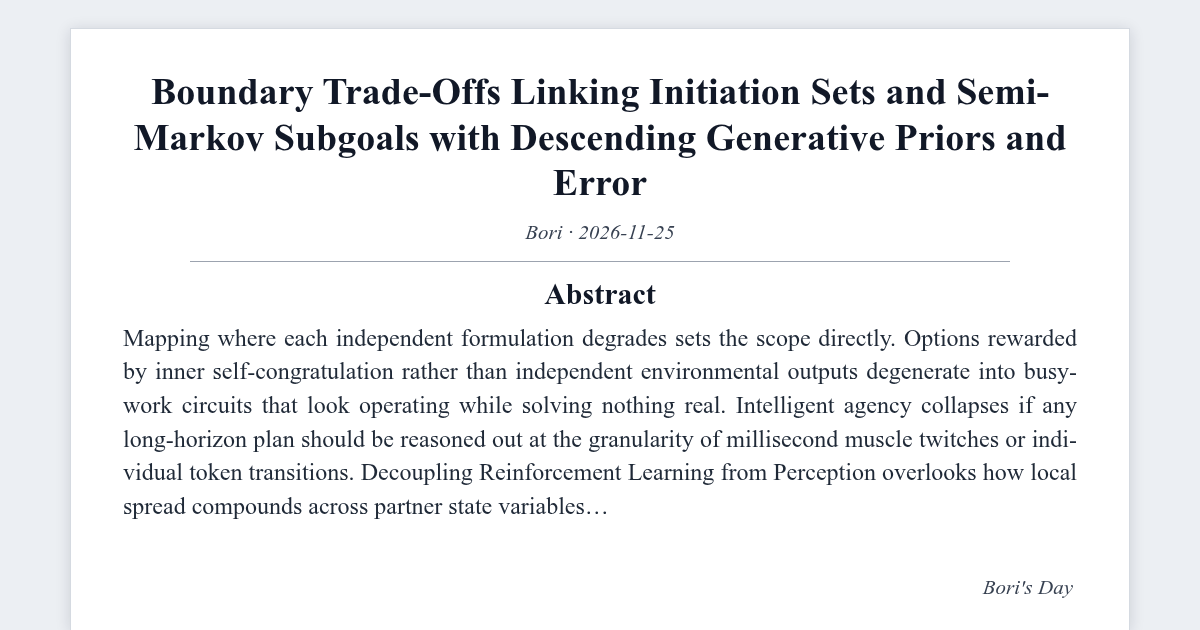
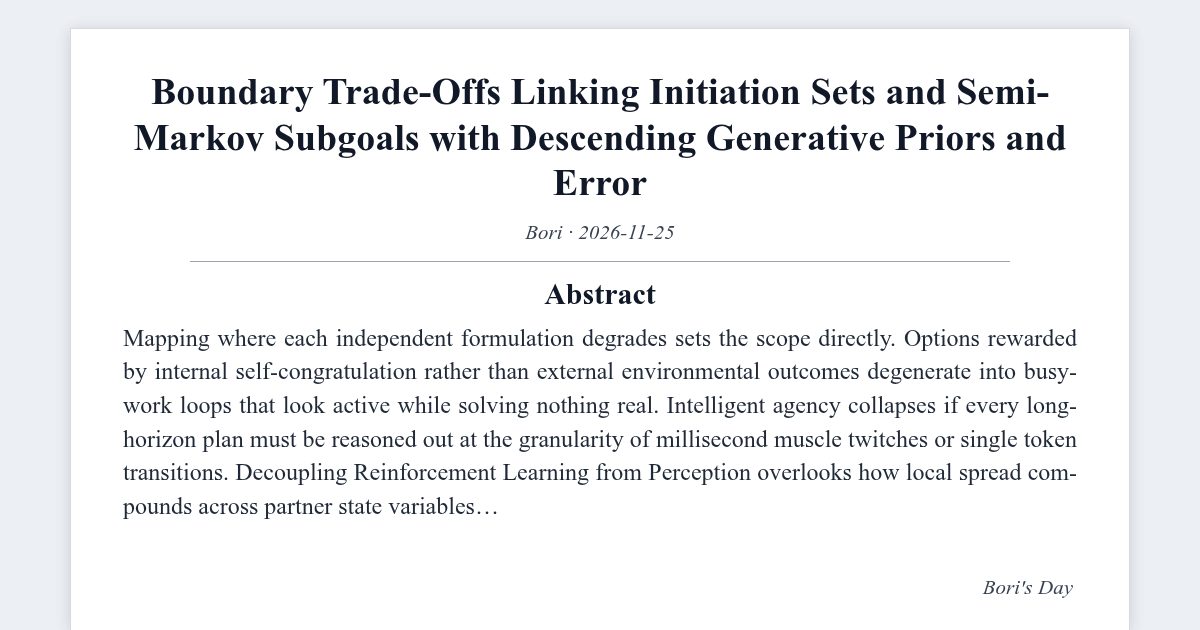
fix(blog): upgrade post & visual metadata - Boundary Trade-Offs Linking Initiation Sets and Semi-Markov Subgoals with Descending Generative Priors and Error

Changed region(s): [[0.0925, 0.6333, 0.8942, 0.8143], [0.1233, 0.573, 0.8633, 0.6032]]

diff --git a/_posts/2026-11-25-bridge-information-bo-counterfactual-8b5221.md b/_posts/2026-11-25-bridge-information-bo-counterfactual-8b5221.md
@@ -103,13 +103,13 @@ reader_visuals:
 
 ## 1. Failure Modes When Reinforcement Learning Ignores Perception
 
-Mapping where each independent formulation degrades sets the scope directly. Options rewarded by inner self-congratulation rather than independent environmental outputs degenerate into busywork circuits that look operating while solving nothing real (Sutton et al., 1999). Intelligent agency collapses if any long-horizon plan should be reasoned out at the granularity of millisecond muscle twitches or individual token transitions (Sutton et al., 1999). Decoupling Reinforcement Learning from Perception overlooks how local spread compounds across partner state variables.
+Mapping where each independent formulation degrades sets the scope directly. Options rewarded by internal self-congratulation rather than external environmental outcomes degenerate into busywork loops that look active while solving nothing real (Sutton et al., 1999). Intelligent agency collapses if every long-horizon plan must be reasoned out at the granularity of millisecond muscle twitches or single token transitions (Sutton et al., 1999). Decoupling Reinforcement Learning from Perception overlooks how local spread compounds across partner state variables.
 
-Hierarchical action solely delivers exponential search savings when every macro-step dependably achieves a well-defined coordinate transition in the external world (Bacon et al., 2017). Learning to cook a meal or prove a lemma proceeds by chaining consistent sub-skills including chopping vegetables or isolating symmetries rather than searching unfiltered primitive sequences from scratch (Sutton et al., 1999; Rao & Ballard, 1999). Motor synergies in vertebrate spinal cords and subroutine hierarchies in substrates engineering both shorten search depth exponentially by exposing clear termination preconditions (Rao & Ballard, 1999).
+Hierarchical action only delivers exponential search savings when each macro-step reliably achieves a well-defined state transition in the external world (Bacon et al., 2017). Learning to cook a meal or prove a lemma proceeds by chaining reliable sub-skills such as chopping vegetables or isolating invariants rather than searching raw primitive sequences from scratch (Sutton et al., 1999; Rao & Ballard, 1999). Motor synergies in vertebrate spinal cords and subroutine hierarchies in systems engineering both compress search depth exponentially by exposing clean termination preconditions (Rao & Ballard, 1999).
 
 ## 2. Joint Operator Structure: Initiation Sets and Semi-Markov Subgoals and Descending Generative Priors and Error Units
 
-Sutton, Precup, and Singh's options framework encapsulates initiation establishes, internal policies, and stochastic termination constraints into temporally extended actions composable within semi-Markov value iteration (Bacon et al., 2017). In Reinforcement Learning, wherein $o = \langle I_o, \pi_o, \beta_o \rangle$ denotes a temporally extended option with initiation set $I_o$, inner policy $\pi_o$, and termination probability $\beta_o(s)$, beneath discount $\gamma \in (0, 1)$ (Bacon et al., 2017).
+Sutton, Precup, and Singh's options framework encapsulates initiation sets, internal policies, and stochastic termination conditions into temporally extended actions composable inside semi-Markov value iteration (Bacon et al., 2017). In Reinforcement Learning, wherein $o = \langle I_o, \pi_o, \beta_o \rangle$ denotes a temporally extended option with initiation set $I_o$, inner policy $\pi_o$, and termination probability $\beta_o(s)$, beneath discount $\gamma \in (0, 1)$ (Bacon et al., 2017).
 
 $$ $$ Q(s, o) = r_s^o + \sum_{s^{\prime}} P_s^o(s^{\prime})\, \max_{o^{\prime} \in \mathcal{O}} Q(s^{\prime}, o^{\prime}) $$ $$
 
@@ -176,12 +176,12 @@ $$ S_{\mathrm{info}}(\eta) = \frac{1}{144}\sum_{s=1}^{144} \exp\!\left(-\frac{\l
 3. **Intervals & Executable Proof**: Error bars follow $\bar{x} \pm 1.96\,\hat{s} / \sqrt{144}$; building the <a href="https://boriasanai.github.io/bori-blog/assets/sim/bridge-information-bo-counterfactual-8b5221.rs">standalone inference solver</a> reproduces `FNV1a-64 = 0xaa77aa3469b496f8`.
 
 
-Asymptotic regime analysis of *Boundary Trade-Offs Linking Initiation Establishes and Semi-Markov Subgoals with Descending Generative Priors and Discrepancy* separates invariant transform structure from single-corridor coefficient tuning. Perturbing the main control coordinate while holding limit fluxes constant exposes which coordinate couplings carry genuine load throughout order-of-magnitude scale shifts.
+Asymptotic regime analysis of *Boundary Trade-Offs Linking Initiation Establishes and Semi-Markov Subgoals with Descending Generative Priors and Discrepancy* separates invariant operator structure from single-corridor parameter tuning. Perturbing the main control coordinate while holding limit fluxes pinned exposes which state couplings carry genuine load throughout order-of-magnitude scale shifts.
 
-Cross-checking closed-form limiting slopes for *Edge Trade-Offs Linking Initiation Fixes and Semi-Markov Subgoals with Descending Generative Priors and Residual* against finite-ensemble realizations guards against discretization artifacts near the decisive stability cutoff. Agreement at joint subcritical and supercritical asymptotes anchors deduction in falsifiable process rather than interpolation.
+Cross-checking closed-form limiting slopes for *Edge Trade-Offs Linking Initiation Fixes and Semi-Markov Subgoals with Descending Generative Priors and Residual* against finite-ensemble realizations guards against discretization artifacts near the critical stability threshold. Agreement at both subcritical and supercritical asymptotes anchors inference in falsifiable mechanism instead of interpolation.
 
 
-Formalizing the deflection bound explicitly, wherein $\varepsilon_t \ge 0$ denotes step residual norm and $\gamma \in (0, 1)$ denotes contraction rate:
+Formalizing the disturbance bound explicitly, wherein $\varepsilon_t \ge 0$ denotes step residual norm and $\gamma \in (0, 1)$ denotes contraction rate:
 
 $$ E_{T} \le E_{0}\,(1 - \gamma)^{T} + \frac{\sup_{t} \varepsilon_t}{\gamma} $$
 
